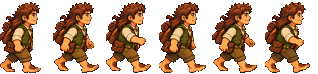
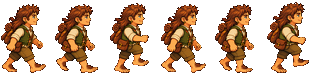
Versión 33: Fer con un ciclo de andar de verdad (piernas)
Claude-Session: https://claude.ai/code/session_016LDX8s9ZoDhMCEDmCMU4bZ

diff --git a/public/sw.js b/public/sw.js
@@ -1,5 +1,5 @@
 /* La Otra Comunidad · caché básica para que abra rápido y funcione con mala cobertura */
-var C='loc-v32';
+var C='loc-v33';
 self.addEventListener('install',function(e){ self.skipWaiting(); });
 self.addEventListener('activate',function(e){ e.waitUntil(caches.keys().then(function(k){ return Promise.all(k.filter(function(x){return x!==C;}).map(function(x){return caches.delete(x);})); }).then(function(){ return self.clients.claim(); })); });
 self.addEventListener('fetch',function(e){

diff --git a/tools/andar.py b/tools/andar.py
@@ -17,7 +17,7 @@ def piezas(path, minsz):
 a, fg, lab, ob, big, filas = piezas(src, 8000)
 mid = lambda i: (ob[i][0].start + ob[i][0].stop) / 2
 ys = sorted(set(int(mid(i)) for i in big)); cut = (min(ys) + max(ys)) / 2
-sel = sorted([i for i in big if (mid(i) > cut) == bool(fila)], key=lambda i: ob[i][1].start)[:6]
+sel = sorted([i for i in big if (max(ys) - min(ys) < 120) or (mid(i) > cut) == bool(fila)], key=lambda i: ob[i][1].start)[:6]
 assert len(sel) == 6, len(sel)
 hmax = max(ob[i][0].stop - ob[i][0].start for i in sel); sc = 71 / hmax
 sheet = Image.new('RGBA', (FW * 6, H), (0, 0, 0, 0))
